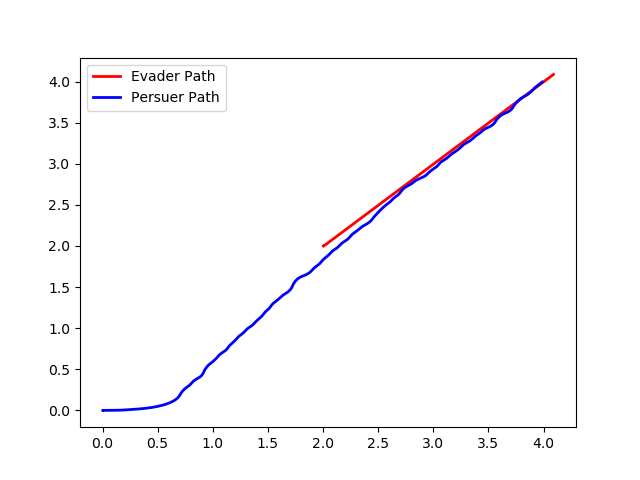
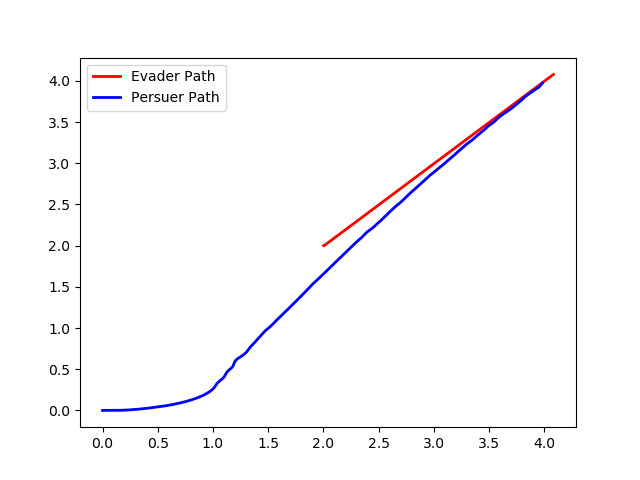
Added solutions to question 2,3,4

diff --git a/teddy_krulewich_unmanned_systems/hw6/src/homework6/homework6/submodules/EvaderTurtleBot.py b/teddy_krulewich_unmanned_systems/hw6/src/homework6/homework6/submodules/EvaderTurtleBot.py
@@ -4,7 +4,7 @@ import numpy as np
 import math
 from geometry_msgs.msg import Twist
 
-class PersuerTurtleBot(TurtleBotController):
+class EvaderTurtleBot(TurtleBotController):
     def __init__(self, namespace="", pnGAin=1.5):
         super().__init__(namespace)
 
@@ -25,6 +25,15 @@ class PersuerTurtleBot(TurtleBotController):
         time = self.get_clock().now().nanoseconds
         time_elapsed = time - self.start_time
         dt = time - self.last_update_odom
+
+        # if there are no more waypoings, stop the turtlebot
+        if time - self.start_time > 30000000000:
+            self.done = True
+            twist = Twist()
+            twist.linear.x = 0.0
+            twist.angular.z = 0.0
+            self.cmd_vel_publisher.publish(twist)
+            return
 
         self.last_update_odom = time
 
@@ -51,8 +60,19 @@ class PersuerTurtleBot(TurtleBotController):
 
         if self.evader_theta is None:
             return
-        
-        self.evader_theta = math.radians(self.evader_theta)
+
+
+        distance = msg.ranges[self.evader_theta]
+
+        if distance < 0.5:
+            twist = Twist()
+            twist.linear.x = 0.2
+            twist.angular.z = 0.8
+
+            self.cmd_vel_publisher.publish(twist)
+            return
+        else:
+            self.evader_theta = math.radians(self.evader_theta) + 3 * math.pi / 2.0
 
         if self.evader_theta > math.pi:
             self.evader_theta -= 2 * math.pi
@@ -76,7 +96,7 @@ class PersuerTurtleBot(TurtleBotController):
         turn_direction = 1.0 if self.evader_theta > 0.0 else -1.0
 
         twist = Twist()
-        twist.linear.x = 0.2
+        twist.linear.x = 0.1
         twist.angular.z = turn_direction * turn_rate
 
         twist.angular.z = clamp(twist.angular.z, -2.84, 2.84)

diff --git a/teddy_krulewich_unmanned_systems/hw6/src/homework6/homework6/question2.py b/teddy_krulewich_unmanned_systems/hw6/src/homework6/homework6/question2.py
@@ -1,0 +1,43 @@
+from homework6.submodules.TurtleBot import TurtleBotController
+from homework6.submodules.PersuerTurtleBot import PersuerTurtleBot
+import rclpy
+
+import matplotlib.pyplot as plt
+
+
+def main(args=None):    
+    rclpy.init(args=args)
+
+    evader = TurtleBotController("turtle")
+    
+    # 10 % original value
+    # persuer = PersuerTurtleBot(pnGAin=.15)
+
+    # 100 % original value
+    # persuer = PersuerTurtleBot(pnGAin=1.5)
+
+    # 1000 % original value
+    persuer = PersuerTurtleBot(pnGAin=150)
+    
+    evader.add_waypoint(9, 9)
+    
+    while not evader.done:
+        rclpy.spin_once(evader)
+        rclpy.spin_once(persuer)
+
+    evader.destroy_node()
+    persuer.destroy_node()
+
+    rclpy.shutdown()
+
+    plt.plot([x[1] for x in evader.state_records['x']],[y[1] for y in evader.state_records['y']], color='red', linewidth=2, label='Evader Path')
+    plt.plot([x[1] for x in persuer.state_records['x']],[y[1] for y in persuer.state_records['y']], color='blue', linewidth=2, label='Persuer Path')
+    
+    plt.legend()
+    plt.show()
+
+
+if __name__ == '__main__':
+    main()
+
+

diff --git a/teddy_krulewich_unmanned_systems/hw6/src/homework6/homework6/question4.py b/teddy_krulewich_unmanned_systems/hw6/src/homework6/homework6/question4.py
@@ -1,0 +1,36 @@
+from homework6.submodules.TurtleBot import TurtleBotController
+from homework6.submodules.PersuerTurtleBot import PersuerTurtleBot
+from homework6.submodules.EvaderTurtleBot import EvaderTurtleBot
+import rclpy
+
+import matplotlib.pyplot as plt
+
+import random
+
+def main(args=None):    
+    rclpy.init(args=args)
+
+    evader = EvaderTurtleBot("turtle", pnGAin=1.5)
+    persuer = PersuerTurtleBot()
+
+    
+    while not evader.done:
+        rclpy.spin_once(evader)
+        rclpy.spin_once(persuer)
+
+    evader.destroy_node()
+    persuer.destroy_node()
+
+    rclpy.shutdown()
+
+    plt.plot([x[1] for x in evader.state_records['x']],[y[1] for y in evader.state_records['y']], color='red', linewidth=2, label='Evader Path')
+    plt.plot([x[1] for x in persuer.state_records['x']],[y[1] for y in persuer.state_records['y']], color='blue', linewidth=2, label='Persuer Path')
+    
+    plt.legend()
+    plt.show()
+
+
+if __name__ == '__main__':
+    main()
+
+

diff --git a/teddy_krulewich_unmanned_systems/hw6/src/homework6/setup.py b/teddy_krulewich_unmanned_systems/hw6/src/homework6/setup.py
@@ -20,7 +20,10 @@ setup(
     tests_require=['pytest'],
     entry_points={
         'console_scripts': [
-            'question1 = homework6.question1:main'
+            'question1 = homework6.question1:main',
+            'question2 = homework6.question2:main',
+            'question3 = homework6.question3:main',
+            'question4 = homework6.question4:main'
         ],
     },
 )
